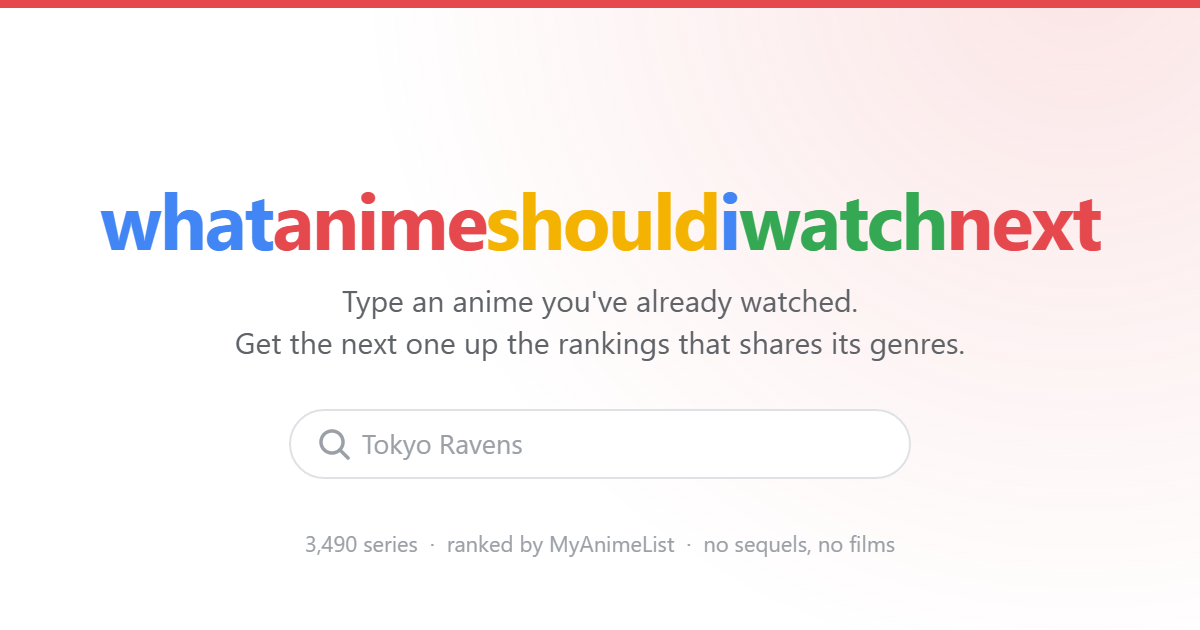
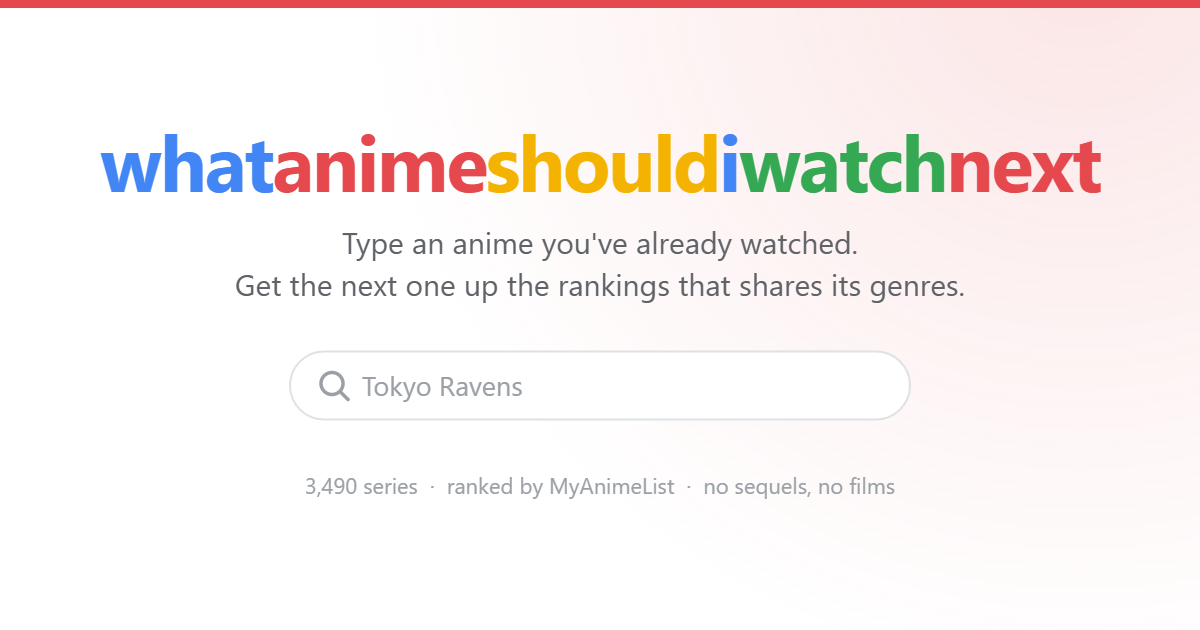
Centre the preview image in its frame
The composition sat low: 180px of headroom against 70px underneath,
which reads as the block sagging in the frame. Now 134 against 131.

Done by measurement rather than by shifting the baselines. The spacing
between the parts is a design choice and stays hard-coded; where the
block as a whole sits is not, so the generator measures the real ink
extent — cap height at the top, descender at the bottom — and translates
once. A tuned constant would have drifted the first time the font stack
fell back to a face with different metrics on another machine.

Verified by scanning the rendered pixels for the topmost and bottommost
non-background rows, not by eye.

diff --git a/make-og-image.html b/make-og-image.html
@@ -75,15 +75,34 @@ function wordmarkWidth(size) {
 let size = 96;
 size = Math.min(96, size * (TARGET / wordmarkWidth(size)));
 
+/* ---- centre the block by measurement, not by hand ---- */
+/* The baselines below are fixed because the spacing *between* the parts is a
+   design choice. Where the block as a whole sits is not: placed by hand it left
+   180px of headroom against 70px underneath, which reads as the composition
+   sagging. Measure the real ink extent — cap height at the top, descender at the
+   bottom — and translate once. Doing it by measurement rather than by a tuned
+   constant means the framing survives the font stack falling back to a face with
+   different metrics on another machine. */
+const WORDMARK_BASELINE = 250, FOOTER_BASELINE = 552;
+
 ctx.font = `700 ${size}px ${FONT}`;
 ctx.letterSpacing = `${(-0.03 * size).toFixed(2)}px`;
 ctx.textBaseline = 'alphabetic';
+const inkTop = WORDMARK_BASELINE - ctx.measureText('whatanimeshouldiwatchnext').actualBoundingBoxAscent;
+ctx.letterSpacing = '0px';
+ctx.font = `400 22px ${FONT}`;
+const inkBottom = FOOTER_BASELINE + ctx.measureText('3,490 series').actualBoundingBoxDescent;
+
+ctx.save();
+ctx.translate(0, (H - (inkBottom - inkTop)) / 2 - inkTop);
+
+ctx.font = `700 ${size}px ${FONT}`;
+ctx.letterSpacing = `${(-0.03 * size).toFixed(2)}px`;
 const totalW = wordmarkWidth(size);
 let x = (W - totalW) / 2;
-const baseline = 250;
 for (const [text, colour] of WORDMARK) {
   ctx.fillStyle = colour;
-  ctx.fillText(text, x, baseline);
+  ctx.fillText(text, x, WORDMARK_BASELINE);
   x += ctx.measureText(text).width;
 }
 
@@ -128,7 +147,9 @@ ctx.fillText('Tokyo Ravens', boxX + 72, boxY + boxH / 2 + 10);
 ctx.textAlign = 'center';
 ctx.font = `400 22px ${FONT}`;
 ctx.fillStyle = FG_FAINT;
-ctx.fillText('3,490 series  ·  ranked by MyAnimeList  ·  no sequels, no films', W / 2, 552);
+ctx.fillText('3,490 series  ·  ranked by MyAnimeList  ·  no sequels, no films', W / 2, FOOTER_BASELINE);
+
+ctx.restore();
 
 /* ---- handoff ---- */
 /* Returned in slices: a 1200x630 PNG is comfortably past what a single tool
